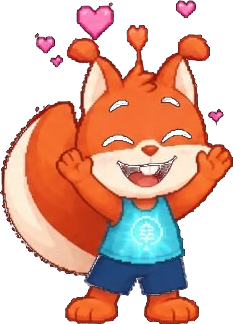
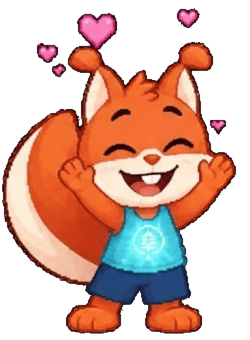
feat: update Solomon squirrel sprites
Replaces all ten pose PNGs with the new artwork and teaches the
asset checker to read palette PNGs with tRNS transparency.

diff --git a/scripts/check_squirrel_assets.py b/scripts/check_squirrel_assets.py
@@ -1,4 +1,7 @@
-"""Проверка RGBA-ассетов: альфа корректна, фон прозрачный."""
+"""Проверка ассетов: альфа корректна, фон прозрачный.
+
+Поддерживаются PNG 8-bit: RGBA (color type 6) и палитра с tRNS (color type 3).
+"""
 import glob
 import os
 import struct
@@ -11,17 +14,25 @@ def load_rgba(path):
     pos = 8
     idat = b""
     w = h = ct = None
+    palette = b""
+    trns = b""
     while pos < len(data):
         ln = struct.unpack(">I", data[pos:pos + 4])[0]
         typ = data[pos + 4:pos + 8]
         chunk = data[pos + 8:pos + 8 + ln]
         if typ == b"IHDR":
             w, h, bd, ct, cm, fl, il = struct.unpack(">IIBBBBB", chunk)
-            assert bd == 8 and ct == 6 and il == 0, (bd, ct, il)
+            assert bd == 8 and ct in (3, 6) and il == 0, (bd, ct, il)
+        elif typ == b"PLTE":
+            palette = chunk
+        elif typ == b"tRNS":
+            trns = chunk
         elif typ == b"IDAT":
             idat += chunk
         pos += 12 + ln
     raw = zlib.decompress(idat)
+    if ct == 3:
+        return _palette_to_rgba(w, h, raw, palette, trns)
     stride = w * 4
     out = bytearray(h * stride)
     prev = bytearray(stride)
@@ -51,6 +62,57 @@ def load_rgba(path):
                 line[i] = (line[i] + pr) & 0xFF
         out[y * stride:(y + 1) * stride] = line
         prev = line
+    return w, h, out
+
+
+def _unfilter(raw, height, stride, bpp):
+    """Раскодит строки PNG (фильтры 0-4) в плоский буфер."""
+    out = bytearray(height * stride)
+    prev = bytearray(stride)
+    p = 0
+    for y in range(height):
+        ft = raw[p]
+        p += 1
+        line = bytearray(raw[p:p + stride])
+        p += stride
+        if ft == 1:
+            for i in range(bpp, stride):
+                line[i] = (line[i] + line[i - bpp]) & 0xFF
+        elif ft == 2:
+            for i in range(stride):
+                line[i] = (line[i] + prev[i]) & 0xFF
+        elif ft == 3:
+            for i in range(stride):
+                a = line[i - bpp] if i >= bpp else 0
+                line[i] = (line[i] + ((a + prev[i]) >> 1)) & 0xFF
+        elif ft == 4:
+            for i in range(stride):
+                a = line[i - bpp] if i >= bpp else 0
+                b = prev[i]
+                c = prev[i - bpp] if i >= bpp else 0
+                pa, pb, pc = abs(b - c), abs(a - c), abs(a + b - 2 * c)
+                pr = a if (pa <= pb and pa <= pc) else (b if pb <= pc else c)
+                line[i] = (line[i] + pr) & 0xFF
+        out[y * stride:(y + 1) * stride] = line
+        prev = line
+    return out
+
+
+def _palette_to_rgba(w, h, raw, palette, trns):
+    """Палитровый PNG (color type 3) + tRNS -> буфер RGBA."""
+    assert palette, "у палитрового PNG нет чанка PLTE"
+    stride = w
+    idx = _unfilter(raw, h, stride, 1)
+    out = bytearray(h * stride * 4)
+    for i in range(h * stride):
+        pi = idx[i] * 3
+        r, g, b = palette[pi], palette[pi + 1], palette[pi + 2]
+        a = trns[idx[i]] if idx[i] < len(trns) else 255
+        o = i * 4
+        out[o] = r
+        out[o + 1] = g
+        out[o + 2] = b
+        out[o + 3] = a
     return w, h, out
 
 
